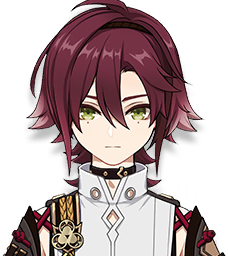
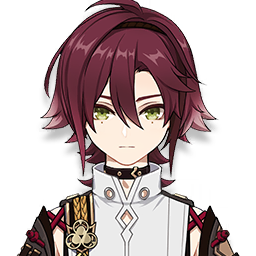
fix

diff --git a/index.html b/index.html
@@ -148,7 +148,7 @@
 		<img src="images/chongyun.png" alt="Chongyun's Bust" style="width:75px;height:75px;background:#d179a4;border-radius:10px;">
 		</a>
 		<a href="pages/characters/collei.html">
-		<img src="pages/characters/images/collei.png" alt="Collei's Bust" style="width:75px;height:72px;background:#d179a4;border-radius:10px;">
+		<img src="pages/characters/images/collei.png" alt="Collei's Bust" style="width:75px;height:75px;background:#d179a4;border-radius:10px;">
 		</a>
 		<a href="pages/characters/diluc.html">
 		<img src="images/diluc.png" alt="Diluc's Bust" style="width:75px;height:75px;background:#d179a4;border-radius:10px;">
@@ -157,7 +157,7 @@
 		<img src="images/diona.png" alt="Diona's Bust" style="width:75px;height:75px;background:#d179a4;border-radius:10px;">
 		</a>
 		<a href="pages/characters/dori.html">
-		<img src="pages/characters/images/dori.png" alt="Dori's Bust" style="width:75px;height:72px;background:#d179a4;border-radius:10px;">
+		<img src="pages/characters/images/dori.png" alt="Dori's Bust" style="width:75px;height:75px;background:#d179a4;border-radius:10px;">
 		</a>
 		<a href="pages/characters/eula.html">
 		<img src="images/eula.png" alt="Eula's Bust" style="width:75px;height:75px;background:#d179a4;border-radius:10px;">
@@ -235,7 +235,7 @@
 		<img src="images/shenhe.png" alt="Shenhe's Bust" style="width:75px;height:75px;background:#d179a4;border-radius:10px;">
 		</a>
 		<a href="pages/characters/shikanoinheizou.html">
-		<img src="images/shikanoinheizou.png" alt="Shikanoin Heizou's Bust" style="width:75px;height:72px;background:#d179a4;border-radius:10px;">
+		<img src="images/shikanoinheizou.png" alt="Shikanoin Heizou's Bust" style="width:75px;height:75px;background:#d179a4;border-radius:10px;">
 		</a>
 		<a href="pages/characters/sucrose.html">
 		<img src="images/sucrose.png" alt="Sucrose's Bust" style="width:75px;height:75px;background:#d179a4;border-radius:10px;">
@@ -247,7 +247,7 @@
 		<img src="images/thoma.png" alt="Thoma's Bust" style="width:75px;height:75px;background:#d179a4;border-radius:10px;">
 		</a>
 		<a href="pages/characters/tighnari.html">
-		<img src="pages/characters/images/tighnari.png" alt="Tighnari's Bust" style="width:75px;height:72px;background:#d179a4;border-radius:10px;">
+		<img src="pages/characters/images/tighnari.png" alt="Tighnari's Bust" style="width:75px;height:75px;background:#d179a4;border-radius:10px;">
 		</a>
 		<a href="pages/characters/traveler.html">
 		<img src="images/traveler.png" alt="Traveler's Bust" style="width:75px;height:75px;background:#d179a4;border-radius:10px;">
